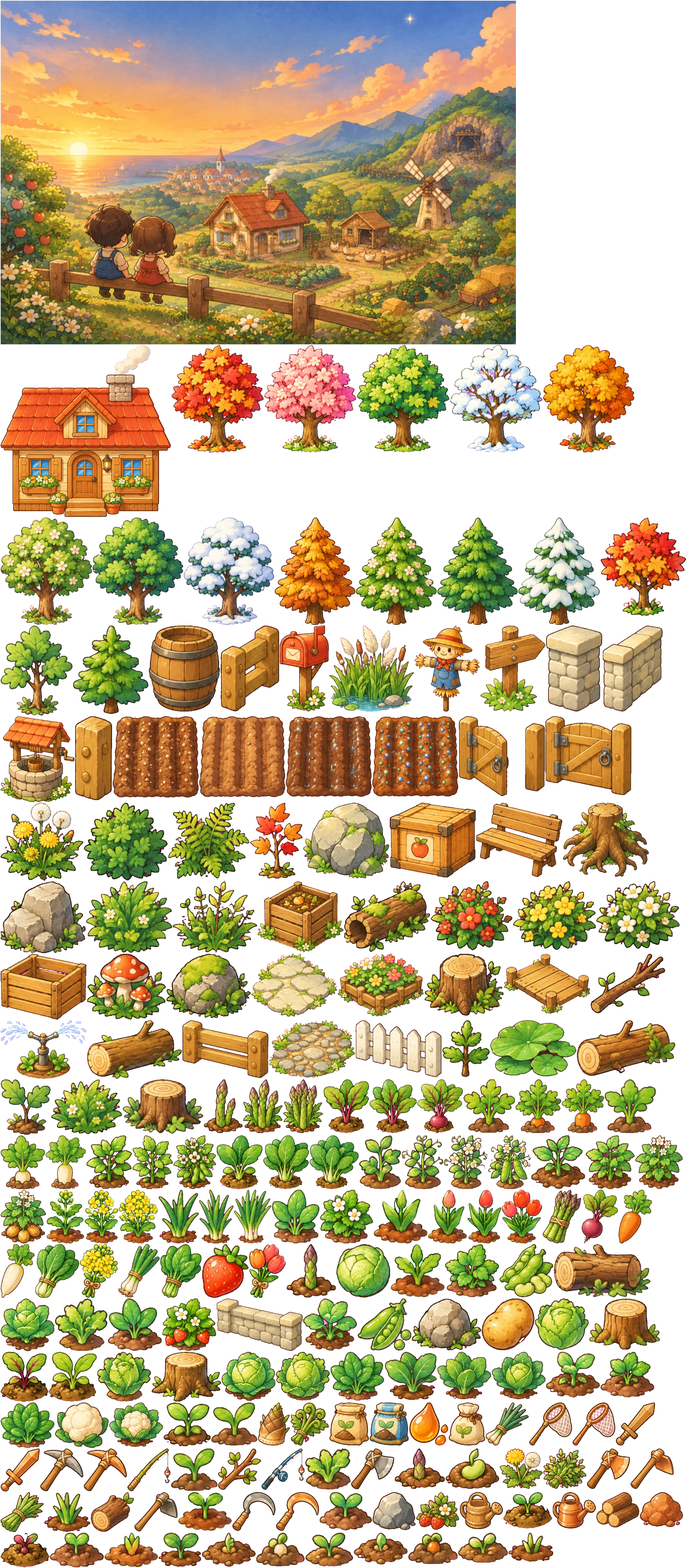
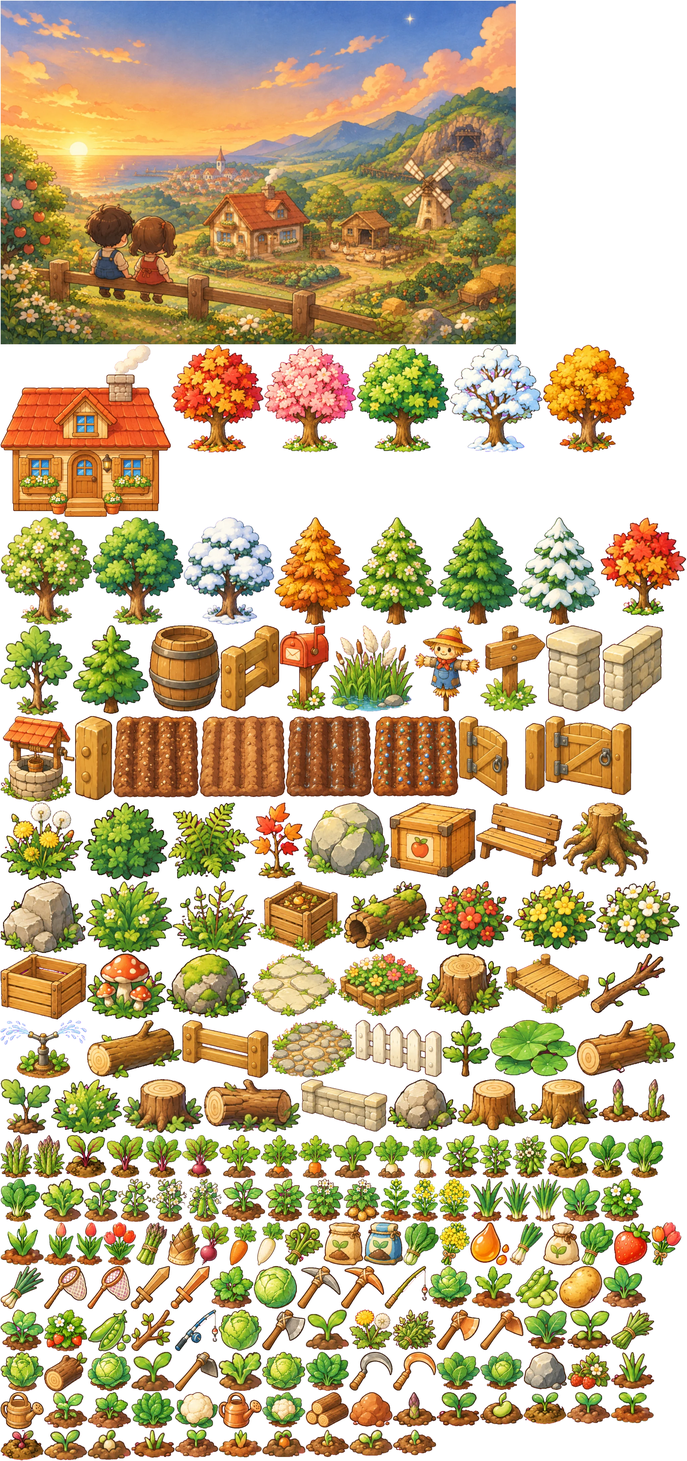
晴耕谷：208 張原圖到齊，第 6 批作物圖集改用原圖
Claude-Session: https://claude.ai/code/session_01S45UbmkRmwDS2Z4tiYZZKx

diff --git a/docs/farm-game/進度.md b/docs/farm-game/進度.md
@@ -497,3 +497,11 @@ prompt 集階段 7 列的項目裡，**還沒做**的
 - 棒球帽的側面圖畫反了（面向左），程式裡翻了過來；草帽不染色（保留原本的草編色）。
 - 第 5 批的髮型、衣服（已下載 43 張原圖）還沒接：髮型要先把頭和臉也換成美術圖才對得上，衣服要在 `data/doll/parts.json` 加選項、在 `sheets.json` 登記。
 - 測試：雙人瀏覽器驗收 77 項通過（含建立角色、換裝）。
+
+## 補充：208 張原圖到齊（2026-11-11）
+
+- 第二份 Canva 設計「晴耕谷匯出2」放了剩下的 83 張，208 張原圖全部下載完成（`art-src/farm/第0～6批/`，不進 git），每張都跟縮圖比對過沒有放錯。
+- 第 6 批圖集（`b6`，444 張：74 種作物與花 × 5 個成長階段＋收成物）改用原圖重做。作物類小圖最大邊從 160 改成 128（一格是 64，兩倍像素剛好）。
+- 現在所有圖集都是原圖做的：`b1` 0.5 MB、`b2` 2.1 MB、`b3` 2.2 MB、`b4` 1.5 MB、`b6` 2.9 MB，合計約 9 MB。之後可以依地圖分批載入來減少第一次開啟的下載量（目前是一次全載）。
+- 已有原圖但還沒接進遊戲：第 5 批（髮型、衣服、鞋、帽子 52 張）、第 1 批的素體與五官（7 張）、第 6 批的果樹與溫室作物（37 張）。
+- 還沒生成的圖：第 6 批 6-75～6-90（16 張）、第 7、8、9 批（139 張），等 Canva 額度。
